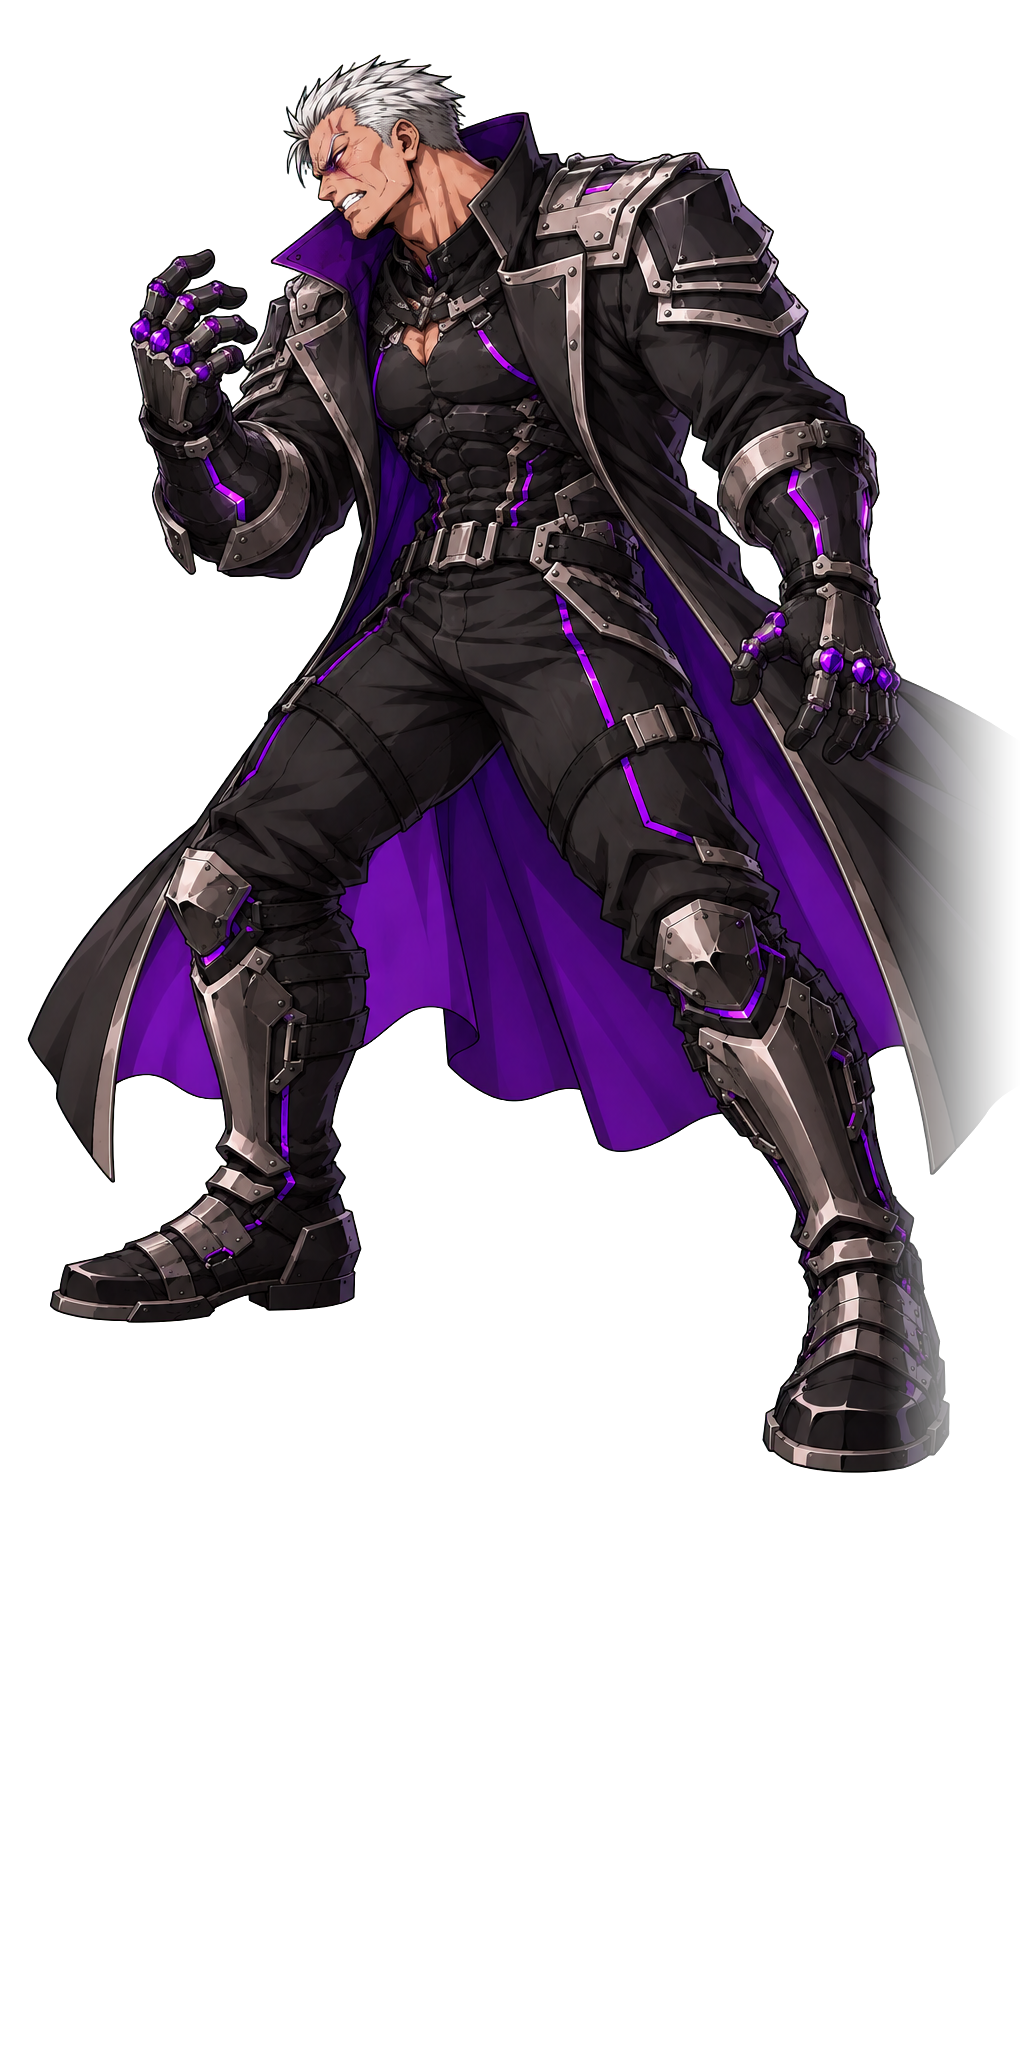
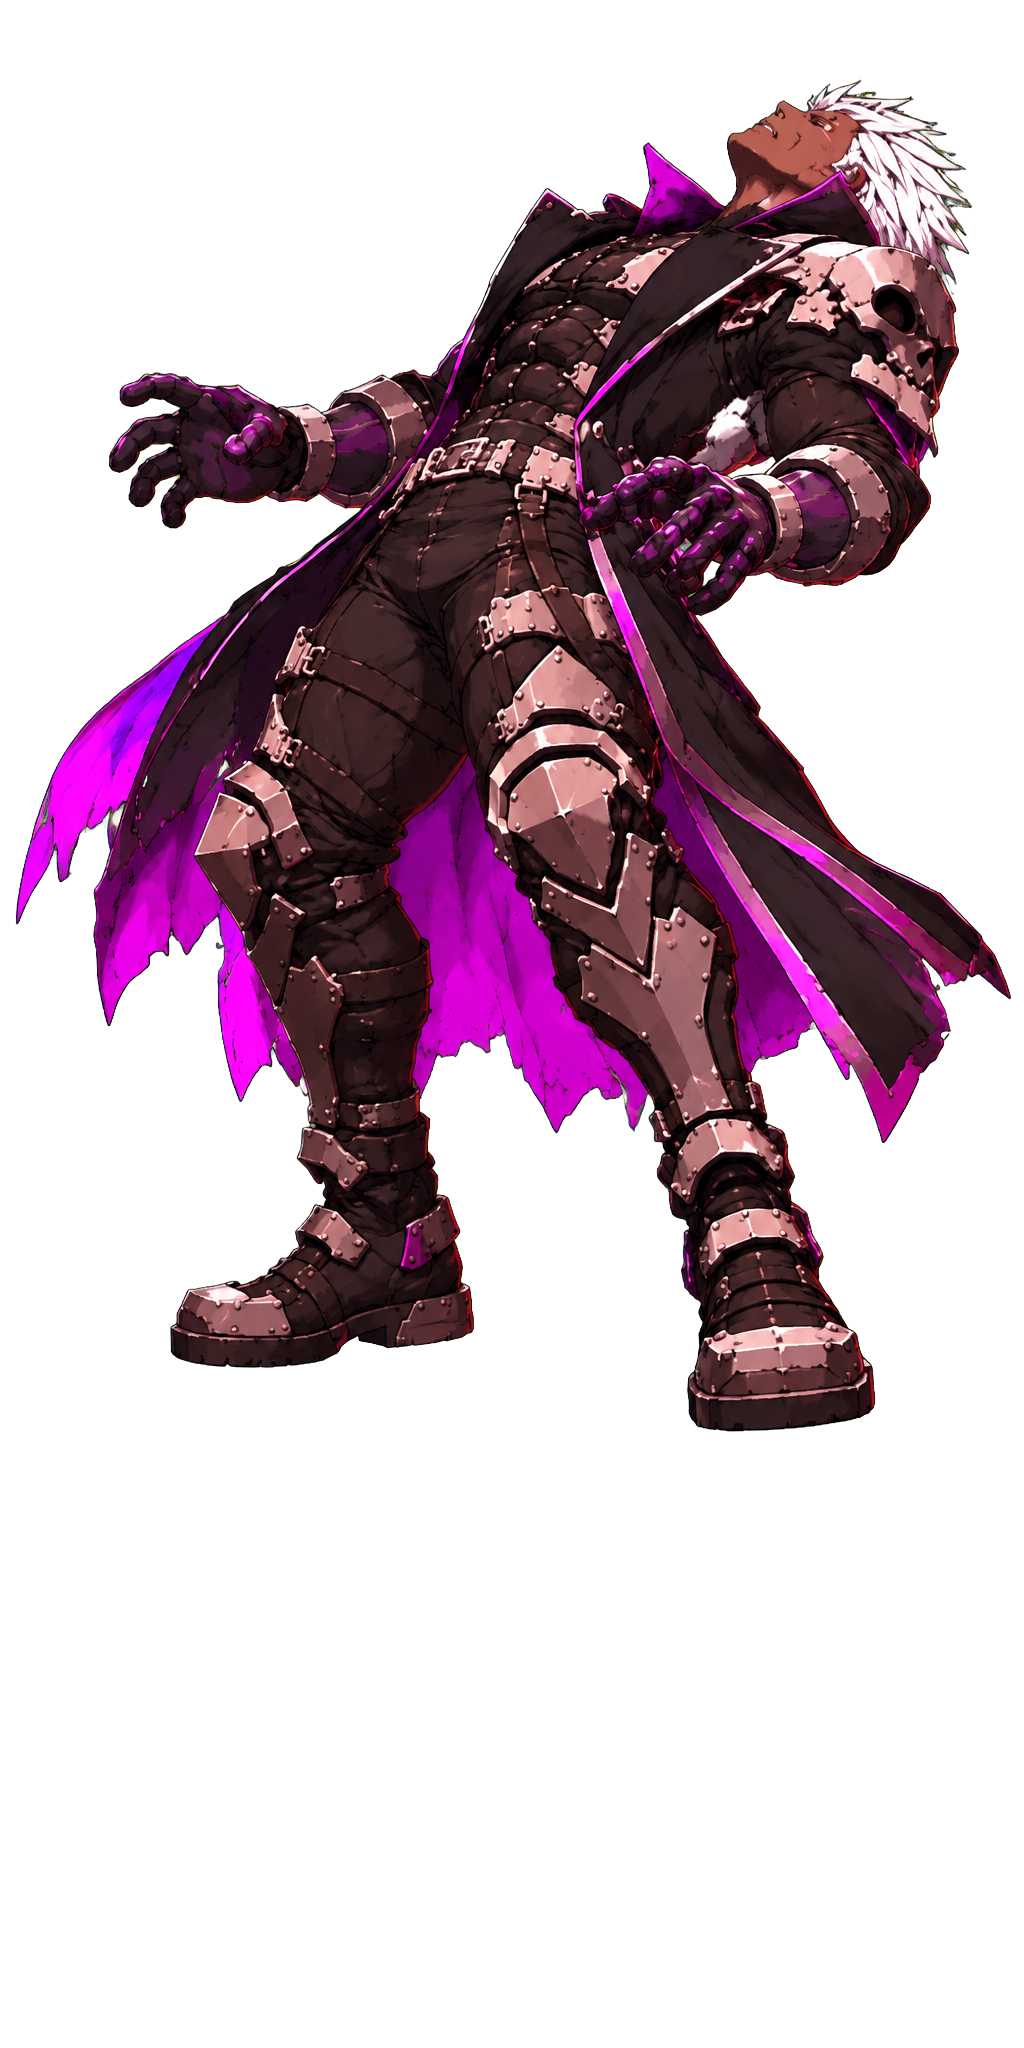
Lab : coup encaissé de Shigaraki redessiné sur le nouveau modèle
Claude-Session: https://claude.ai/code/session_015fMRbsLJa9znv5DiAYkBLj

diff --git a/lab/src/game/rival/RivalLayer.ts b/lab/src/game/rival/RivalLayer.ts
@@ -124,8 +124,8 @@ const POSES = {
   // parade : il lève la main (passage), puis se protège le front de l'avant-bras ; les jambes ne bougent pas
   blockStep: { file: 'rival/block-step.webp', ground: [560, 1469], scale: 1.1 },
   block: { file: 'rival/block.webp', ground: [559, 1471], scale: 1.1 },
-  hurt: { file: 'rival/hurt.webp', ground: [490, 1478], scale: 0.9 },
-  hurtRecover: { file: 'rival/hurt-recover.webp', ground: [564, 1472], scale: 0.9 },
+  hurt: { file: 'rival/hurt.webp', ground: [511, 1463], scale: 1.1 },
+  hurtRecover: { file: 'rival/hurt-recover.webp', ground: [491, 1399], scale: 1.1 },
 } satisfies Record<string, { file: string; ground: Point; scale: number }>
 type RivalPose = keyof typeof POSES
 const POSE_NAMES = Object.keys(POSES) as RivalPose[]

diff --git a/lab/docs/ASSETS.md b/lab/docs/ASSETS.md
@@ -74,7 +74,7 @@ python3 tools/prepare_rival.py
 
 Le script lit tous les `../art/rival-*.png` (personnage tourné vers la gauche, mêmes contraintes que les poses du personnage), retire le fond vert et écrit une image par pose dans `public/assets/rival/`. Il affiche aussi l'étendue des appuis et le bord avant du corps, qui servent à régler le point posé au sol, `surface` et `gap` dans `src/game/rival/RivalLayer.ts`.
 
-Son K.O. : `rival-ko-1.png` à `rival-ko-5.png` (les quatre derniers en largeur, 1536 × 1024 : `prepare_rival.py` les réduit à la largeur de la toile et les pose en bas). Sa parade : `rival-block-step.png` (la main levée, dessin de passage) et `rival-block.png` (l'avant-bras sur le front), sur le nouveau modèle. Pour la lévitation, `rival-float-forward.png` (penché vers l'avant, pour avancer) et `rival-float-back.png` (droit, pour reculer) et `rival-float-start.png` (pose de passage, droite, en l'air). Pour la téléportation : `rival-teleport-crouch.png`, `rival-teleport-streak.png` (le même, dans un trait de vitesse) et `rival-teleport-rise.png`. Pour son coup de poing : `rival-punch-ready.png`, `rival-punch-windup.png`, `rival-punch-reach.png` et `rival-punch-hit.png` (de dos, poing tendu), calés sur le pied arrière ; pour son coup de pied : `rival-kick-chamber.png`, `rival-kick-raise.png` et `rival-kick-hit.png`, calés sur la botte d'appui ; pour son coup de marteau : `rival-smash-raise.png`, `rival-smash-swing.png` et `rival-smash-hit.png`, calés sur la botte arrière (coupée par le bord droit : `NO_EDGE_FADE` dans `tools/prepare_rival.py` empêche de l'estomper) ; pour son uppercut : `rival-upper-crouch.png`, `rival-upper-rise.png` et `rival-upper-hit.png`, calés sur la botte arrière ; pour son coup de pied final : `rival-push-ready.png`, `rival-push-chamber.png` et `rival-push-hit.png`, calés sur la botte d'appui ; pour son coup spécial : `rival-special-stance.png`, `rival-special-chamber.png`, `rival-special-charge.png`, `rival-special-kick.png`, sa suite `rival-special2-ready/cock/punch/hit.png` (calés en arrière de la botte arrière pour ne pas chevaucher Moussa), et ses effets `rival-fx-trail-1..3.png`, `rival-fx-burst.png`, `rival-fx-ring.png` (cellules de la moitié sur fond vert de la planche fournie, agrandies sur une toile 1024 × 1536, cœur lumineux placé à un point fixe). Pour le début de son attaque ultime : `rival-ult-ready.png`, `rival-ult-charge-1.png`, `rival-ult-charge-2.png`, puis l'uppercut (les dessins `rival-upper-*` de l'enchaînement) puis la charge `rival-ult-power.png` (de face), `rival-ult-crouch-1..3.png` et l'envol `rival-ult-fly.png`, le retour en coup de poing vers le sol `rival-ult-land.png`, puis le coup de marteau à deux mains `rival-hammer-raise.png`, `rival-hammer-swing.png`, `rival-hammer-hit.png` et `rival-hammer-end.png`, et le bond en arrière qui suit, `rival-hop-1.png` à `rival-hop-8.png` (avec sa traînée de super vitesse, `rival-fx-streak.png`, un trait violet vertical) et l'impact au sol du décollage, `rival-fx-ground-1.png` à `rival-fx-ground-11.png` (petites images fournies par Moussa, recadrées, agrandies et posées au centre du bas d'une toile 1024 × 1536 ; les dessins 1, 10 et 11, plus petits, sont plus agrandis et donc un peu flous) (les deux premiers, en 1121 × 1403, ont été recadrés pieds en bas sur une toile 1024 × 1536), calés sur la botte arrière (non estompés au bord). Échelle mesurée du haut des cheveux au ceinturon. `tools/prepare_rival.py` estompe les dessins coupés par le bord droit de l'illustration (`EDGE_FADE`) : leur point `ground` dans `POSES` est pris sous le ceinturon, à la même place que dans la garde, et à hauteur du bas de la botte la plus basse.
+Son K.O. : `rival-ko-1.png` à `rival-ko-5.png` (les quatre derniers en largeur, 1536 × 1024 : `prepare_rival.py` les réduit à la largeur de la toile et les pose en bas). Son coup encaissé : `rival-hurt.png` (tête rejetée en arrière) et `rival-hurt-recover.png` (le retour), sur le nouveau modèle depuis le 21 octobre. Sa parade : `rival-block-step.png` (la main levée, dessin de passage) et `rival-block.png` (l'avant-bras sur le front), sur le nouveau modèle. Pour la lévitation, `rival-float-forward.png` (penché vers l'avant, pour avancer) et `rival-float-back.png` (droit, pour reculer) et `rival-float-start.png` (pose de passage, droite, en l'air). Pour la téléportation : `rival-teleport-crouch.png`, `rival-teleport-streak.png` (le même, dans un trait de vitesse) et `rival-teleport-rise.png`. Pour son coup de poing : `rival-punch-ready.png`, `rival-punch-windup.png`, `rival-punch-reach.png` et `rival-punch-hit.png` (de dos, poing tendu), calés sur le pied arrière ; pour son coup de pied : `rival-kick-chamber.png`, `rival-kick-raise.png` et `rival-kick-hit.png`, calés sur la botte d'appui ; pour son coup de marteau : `rival-smash-raise.png`, `rival-smash-swing.png` et `rival-smash-hit.png`, calés sur la botte arrière (coupée par le bord droit : `NO_EDGE_FADE` dans `tools/prepare_rival.py` empêche de l'estomper) ; pour son uppercut : `rival-upper-crouch.png`, `rival-upper-rise.png` et `rival-upper-hit.png`, calés sur la botte arrière ; pour son coup de pied final : `rival-push-ready.png`, `rival-push-chamber.png` et `rival-push-hit.png`, calés sur la botte d'appui ; pour son coup spécial : `rival-special-stance.png`, `rival-special-chamber.png`, `rival-special-charge.png`, `rival-special-kick.png`, sa suite `rival-special2-ready/cock/punch/hit.png` (calés en arrière de la botte arrière pour ne pas chevaucher Moussa), et ses effets `rival-fx-trail-1..3.png`, `rival-fx-burst.png`, `rival-fx-ring.png` (cellules de la moitié sur fond vert de la planche fournie, agrandies sur une toile 1024 × 1536, cœur lumineux placé à un point fixe). Pour le début de son attaque ultime : `rival-ult-ready.png`, `rival-ult-charge-1.png`, `rival-ult-charge-2.png`, puis l'uppercut (les dessins `rival-upper-*` de l'enchaînement) puis la charge `rival-ult-power.png` (de face), `rival-ult-crouch-1..3.png` et l'envol `rival-ult-fly.png`, le retour en coup de poing vers le sol `rival-ult-land.png`, puis le coup de marteau à deux mains `rival-hammer-raise.png`, `rival-hammer-swing.png`, `rival-hammer-hit.png` et `rival-hammer-end.png`, et le bond en arrière qui suit, `rival-hop-1.png` à `rival-hop-8.png` (avec sa traînée de super vitesse, `rival-fx-streak.png`, un trait violet vertical) et l'impact au sol du décollage, `rival-fx-ground-1.png` à `rival-fx-ground-11.png` (petites images fournies par Moussa, recadrées, agrandies et posées au centre du bas d'une toile 1024 × 1536 ; les dessins 1, 10 et 11, plus petits, sont plus agrandis et donc un peu flous) (les deux premiers, en 1121 × 1403, ont été recadrés pieds en bas sur une toile 1024 × 1536), calés sur la botte arrière (non estompés au bord). Échelle mesurée du haut des cheveux au ceinturon. `tools/prepare_rival.py` estompe les dessins coupés par le bord droit de l'illustration (`EDGE_FADE`) : leur point `ground` dans `POSES` est pris sous le ceinturon, à la même place que dans la garde, et à hauteur du bas de la botte la plus basse.
 
 ## Décor : `tools/prepare_stage.py`
 
